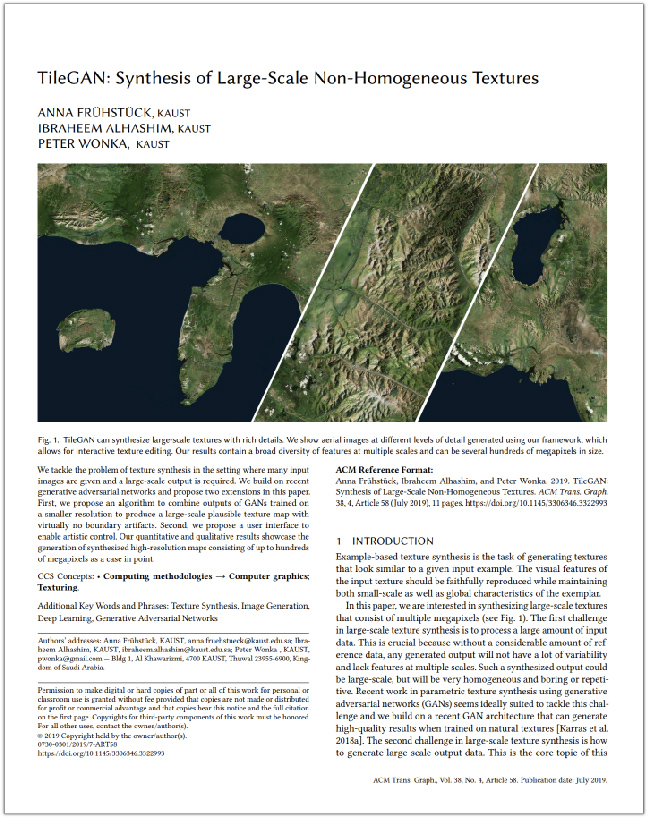
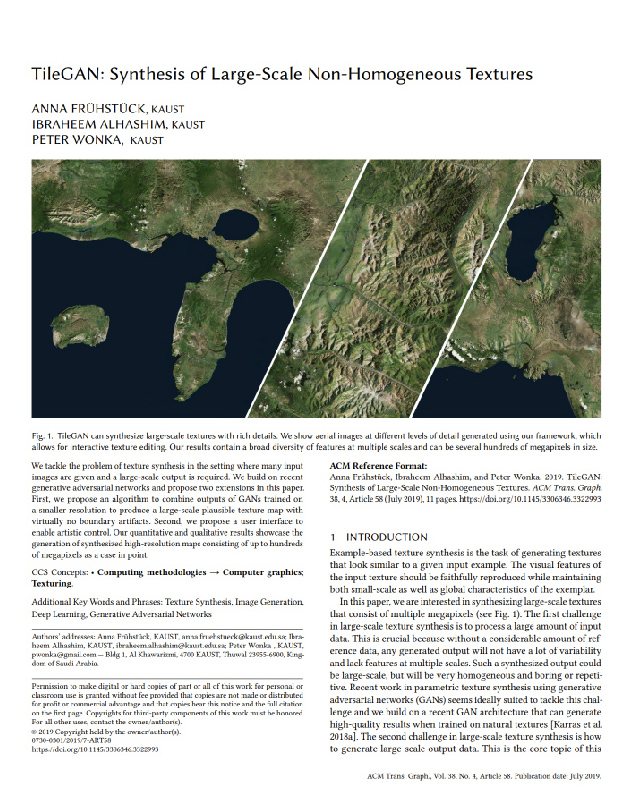
- added supplementary option to website

Changed region(s): [[0.0, 0.0, 1.0, 1.0]]

diff --git a/_layouts/publication.html b/_layouts/publication.html
@@ -1,4 +1,3 @@
-{% assign base = '' %}{% assign depth = page.url | split: '/' | size | minus: 1 %}{% if depth <= 1 %}{% assign base = '.' %}{% elsif depth == 2 %}{% assign base = '..' %}{% elsif depth == 3 %}{% assign base = '../..' %}{% elsif depth == 4 %}{% assign base = '../../..' %}{% endif %}
 <!DOCTYPE html>
 <html lang="en">
   <head>
@@ -30,7 +29,7 @@
     <![endif]-->
 
 	<!-- Custom styles for this template -->
-    <link rel="stylesheet" type="text/css" href={{ site.baseurl }}'../static/css/pub.css'/>
+    <link rel="stylesheet" type="text/css" href='{{ site.baseurl }}../static/css/pub.css'/>
 	<link rel="stylesheet" type="text/css" href="https://maxcdn.bootstrapcdn.com/font-awesome/4.4.0/css/font-awesome.min.css" />
 	<link href="https://fonts.googleapis.com/css?family=Abel|Nanum+Gothic+Coding&display=swap" rel="stylesheet">
 	<link rel="stylesheet" href="https://use.fontawesome.com/releases/v5.8.1/css/all.css" integrity="sha384-50oBUHEmvpQ+1lW4y57PTFmhCaXp0ML5d60M1M7uH2+nqUivzIebhndOJK28anvf" crossorigin="anonymous">
@@ -76,8 +75,39 @@
 		
 		<!-- content boxes -->
 		<h2>Paper</h2>
-		<div class='container'>
-			<div class="image leftimage">
+		
+		<div class='container centered'>
+		{% if page.paper_description %}
+			<p>{{page.paper_description}}</p>
+		{% endif %}
+		{% if page.thumbnail and page.supplementary_thumbnail %}
+			<div style="display: inline-block; padding: 0em 1em; margin-left: auto; margin-right: auto;">
+				<div class="image paper">
+				{% if page.papersource %} 
+					<a href='{{page.papersource}}' target='_blank'>
+				{% endif %}	
+					<img src="{{ page.thumbnail | relative_url }}">
+				{% if page.papersource %} 
+					</a>
+				{% endif %}
+				</div>
+				<p>Paper</p>
+			</div>
+			<div style="display: inline-block; padding: 0em 1em; margin-left: auto; margin-right: auto;">
+				<div class="image paper2">
+				{% if page.supplementarysource %} 
+					<a href='{{page.papersource}}' target='_blank'>
+				{% endif %}	
+					<img src="{{ page.supplementary_thumbnail | relative_url }}">
+				{% if page.supplementarysource %} 
+					</a>
+				{% endif %}
+				</div>
+				<p>Supplementary Materials</p>
+			</div>
+			<blockquote id="box-citation" class="box slim citation leftalign"><p id="content-citation">{{ page.citation }}</p></blockquote>
+		{% else %}
+			<div class="image leftimage paper" style='margin-right: 1em'>
 			{% if page.papersource %} 
 				<a href='{{page.papersource}}' target='_blank'>
 			{% endif %}	
@@ -86,15 +116,13 @@
 				</a>
 			{% endif %}
 			</div>
-		<div style='display: flex'>
-		{% if page.citation %}
-		<blockquote id="box-citation" class="box slim citation leftalign"><p id="content-citation">{{ page.citation }}</p></blockquote>
+			<div style='display: flex'>
+			{% if page.citation %}
+			<blockquote id="box-citation" class="box slim citation leftalign"><p id="content-citation">{{ page.citation }}</p></blockquote>
+			{% endif %}
+			</div>
 		{% endif %}
 		</div>	
-		<br>
-		<br>
-		<br>
-		<br>
 		
 		{% if page.github %}
 			<h2>Our Code is available on Github</h2>
@@ -299,10 +327,10 @@
 	<div class="footer"></div>
 
     <!-- Include all compiled plugins (below), or include individual files as needed -->
-	<script src={{ site.baseurl }}'../static/js/docs.min.js'></script>
-    <script src={{ site.baseurl }}'../static/js/main.js'></script>
+	<script src='{{ site.baseurl }}../static/js/docs.min.js'></script>
+    <script src='{{ site.baseurl }}../static/js/main.js'></script>
     <!-- IE10 viewport hack for Surface/desktop Windows 8 bug -->
-    <script src={{ site.baseurl }}"../static/js/ie10-viewport-bug-workaround.js"></script>
+    <script src='{{ site.baseurl }}../static/js/ie10-viewport-bug-workaround.js'></script>
   </body>
 </html>
 

diff --git a/static/css/pub.css b/static/css/pub.css
@@ -175,12 +175,12 @@ h1, h2, h3 {
 	padding-right: 0.2em;
 }
 
-.leftimage img {
-	max-height: 300px; 
-	border: 1px solid #aaa;
-	box-shadow: 1px 1px 3px #ddd;
-	margin: 3px;
-}
+/* .leftimage img { */
+	/* max-height: 300px;  */
+	/* border: 1px solid #aaa; */
+	/* box-shadow: 1px 1px 3px #ddd; */
+	/* margin: 3px; */
+/* } */
 
 .image a {
    text-decoration: none !important;
@@ -252,6 +252,68 @@ h1, h2, h3 {
 #gallery {
   position: relative;
   /*display: none;*/
+}
+
+
+.paper, .paper2 {
+  background: #fff;
+  padding: 1em;
+  position: relative;
+  margin-bottom: 0.25em;
+}
+
+.paper img , .paper2 img {
+	max-height: 310px;
+}
+
+.paper,
+.paper2,
+.paper::before,
+.paper2::before,
+.paper::after,
+.paper2::after {
+  /* Styles to distinguish sheets from one another */
+  box-shadow: 1px 1px 1px rgba(0,0,0,0.25);
+  border: 1px solid #bbb;
+}
+
+.paper::before,
+.paper2::before,
+.paper::after,
+.paper2::after {
+  content: "";
+  position: absolute;
+  height: 100%;
+  width: 100%;
+  background-color: #eee;
+}
+
+.paper::before {
+  right: 6px;
+  top: 1px;
+  transform: rotate(-1.2deg);
+  z-index: -1;
+}
+
+.paper::after {
+  top: 3px;
+  right: -3px;
+  transform: rotate(1deg);
+  z-index: -2;
+}
+
+.paper2::before {
+  right: 4px;
+  top: -1px;
+  transform: rotate(1.1deg);
+  z-index: -1;
+}
+
+.paper2::after {
+  top: 2px;
+  right: -4px;
+  transform: rotate(-1.3deg);
+  z-index: -2;
 }
 
 /* SLIDER

diff --git a/_publications/insetgan.md b/_publications/insetgan.md
@@ -55,10 +55,17 @@ abstract:  While GANs can produce photo-realistic images in ideal conditions for
 teaser:     './assets/publications/insetgan_applications.jpg'
 
 #link to smaller thumbnail image of publication (please make sure the aspect ratio is 3:2, suggested size is 150x100px)
-thumbnail:  './assets/publications/insetgan_paper_noborder.jpg'
+thumbnail:  './assets/publications/insetgan_paper.jpg'
+
+supplementary_thumbnail:  './assets/publications/insetgan_supplementary.jpg'
+
+paper_description: 'Coming soon!'
 
 #link to paper PDF
 #papersource: 'https://dl.acm.org/doi/pdf/10.1145/3306346.3322993'
+
+#link to supplementary PDF
+#supplementarysource: 'https://dl.acm.org/doi/pdf/10.1145/3306346.3322993'
 
 #github: 
   

diff --git a/_publications/tilegan.md b/_publications/tilegan.md
@@ -43,7 +43,7 @@ abstract: We tackle the problem of texture synthesis in the setting where many i
 teaser: './assets/publications/tilegan_results.jpg'
 
 #link to smaller thumbnail image of publication (please make sure the aspect ratio is 3:2, suggested size is 150x100px)
-thumbnail: './assets/publications/tilegan_paper_noborder.jpg'
+thumbnail: './assets/publications/tilegan_paper.jpg'
 
 
 #link to paper PDF
